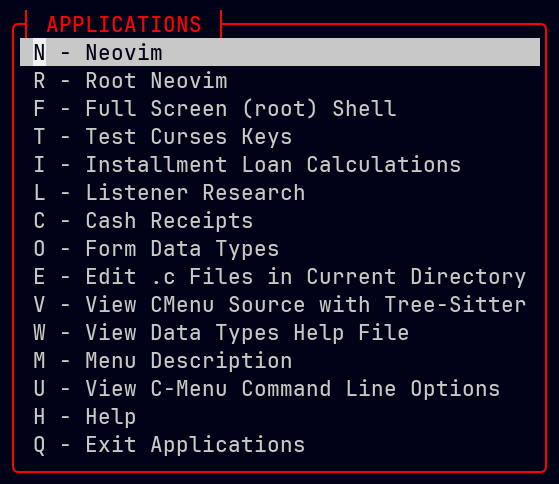
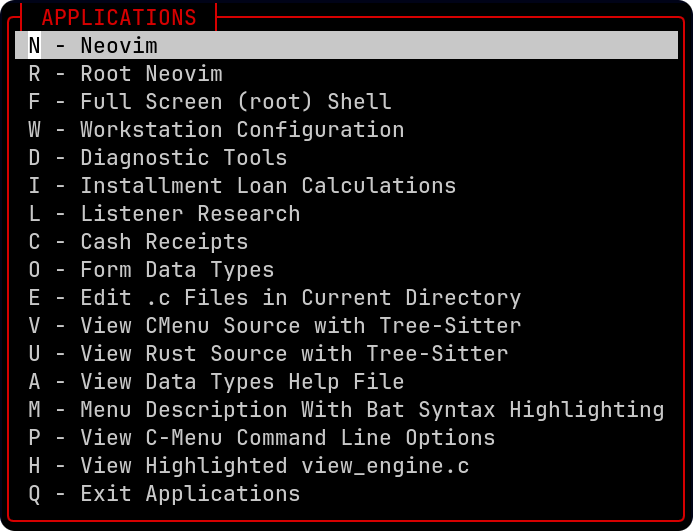
Fixed bug in pick_engine related to argp processing. Essentially, argp provides all the non-option arguments to be captured in an array not including argv[0]. The getopt code returned an array of all arguments with an index to the first non-option argument. This caused the pick_engine code to fail w

Changed region(s): [[0.0, 0.0, 1.0, 1.0]]

diff --git a/src/dwin-new.c b/src/dwin-new.c
@@ -1,5 +1,10 @@
 /** @file dwin.c
-    @brief Window support for C-Menu
+    @brief Window support for C-Menu - EXPERIMENTAL
+    @note This file contains functions for managing NCurses windows and color
+   settings for the Chyron structure for function key labels and mouse click
+   handling. This file is a work in progress and may be subject to change as the
+   C-Menu project evolves. Generally, don't try to use it yet unless you want
+   complete the half-done code modifications.
     @author Bill Waller
     Copyright (c) 2025
     MIT License
@@ -49,11 +54,13 @@ void apply_gamma(RGB *);
 
 Chyron *new_chyron();
 void set_chyron_key(Chyron *, int, char *, int);
+void set_chyron_key_cp(Chyron *, int, char *, int, int);
 bool is_set_chyron_key(Chyron *, int);
 void unset_chyron_key(Chyron *, int);
 void compile_chyron(Chyron *);
 int get_chyron_key(Chyron *, int);
 Chyron *destroy_chyron(Chyron *chyron);
+int str_to_cmplx(cchar_t *dest, char *src, int cp, int *p, int);
 
 Chyron *wait_mk_chyron();
 WINDOW *wait_mk_win(Chyron *, char *);
@@ -254,14 +261,21 @@ bool is_set_chyron_key(Chyron *chyron, int k) {
    X position. If the label string is empty, the key is unset by setting the
    first character of the text to '\0'.
 */
-void set_chyron_key(Chyron *chyron, int k, char *s, int kc) {
-
+void set_chyron_key_cp(Chyron *chyron, int k, char *s, int kc, int cp) {
     if (*s != '\0')
-
         ssnprintf(chyron->key[k]->text, CHYRON_KEY_MAXLEN - 1, "%s", s);
     else
         chyron->key[k]->text[0] = '\0';
     chyron->key[k]->keycode = kc;
+    chyron->key[k]->cp = cp;
+}
+void set_chyron_key(Chyron *chyron, int k, char *s, int kc) {
+    if (*s != '\0')
+        ssnprintf(chyron->key[k]->text, CHYRON_KEY_MAXLEN - 1, "%s", s);
+    else
+        chyron->key[k]->text[0] = '\0';
+    chyron->key[k]->keycode = kc;
+    chyron->key[k]->cp = cp_norm;
 }
 /** @brief Unset chyron key
     @ingroup Chyron
@@ -280,25 +294,60 @@ void unset_chyron_key(Chyron *chyron, int k) { chyron->key[k]->text[0] = '\0'; }
 */
 void compile_chyron(Chyron *chyron) {
     int end_pos = 0;
-    int i = 0;
-    chyron->s[0] = '\0';
-    chyron->l = 0;
-    while (i < CHYRON_KEYS) {
-        if (chyron->key[i]->text[0] == '\0') {
-            i++;
+    int k = 0, p = 0;
+
+    while (k < CHYRON_KEYS) {
+        if (chyron->key[k]->text[0] == '\0') {
+            k++;
             continue;
         }
-        if (end_pos == 0)
-            strnz__cat(chyron->s, " ", MAXLEN - 1);
-        else
-            strnz__cat(chyron->s, " | ", MAXLEN - 1);
-        strnz__cat(chyron->s, chyron->key[i]->text, MAXLEN - 1);
+        if (end_pos == 0) {
+            str_to_cmplx(chyron->cmplx_buf, " ", chyron->key[k]->cp, &p,
+                         MAXLEN - 1);
+            strnz__cpy(chyron->s, " ", MAXLEN - 1);
+        } else {
+            str_to_cmplx(chyron->cmplx_buf, "|", cp_norm, &p, MAXLEN - 1);
+            strnz__cpy(chyron->s, "|", MAXLEN - 1);
+        }
+        str_to_cmplx(chyron->cmplx_buf, chyron->key[k]->text,
+                     chyron->key[k]->cp, &p, MAXLEN - 1);
+        strnz__cat(chyron->s, chyron->key[k]->text, MAXLEN - 1);
         end_pos = strlen(chyron->s) + 1;
-        chyron->key[i]->end_pos = end_pos;
-        i++;
+        chyron->key[k]->end_pos = end_pos;
     }
-    if (end_pos > 0)
-        chyron->l = strnz__cat(chyron->s, " ", MAXLEN - 1);
+    str_to_cmplx(chyron->cmplx_buf, " ", chyron->key[k]->cp, &p, MAXLEN - 1);
+    strnz__cpy(chyron->s, " ", MAXLEN - 1);
+    end_pos = strlen(chyron->s) + 1;
+    chyron->key[k]->end_pos = end_pos;
+}
+
+int str_to_cmplx(cchar_t *cmplx_buf, char *str, int cpx, int *p, int maxlen) {
+    int i = 0, len = 0;
+    attr_t attr = WA_NORMAL;
+    const char *s;
+    cchar_t cc = {0};
+    wchar_t wc = L'\0';
+    mbstate_t mbstate;
+    memset(&mbstate, 0, sizeof(mbstate));
+    while (str[i] != '\0') {
+        s = &str[i];
+        len = mbrtowc(&wc, s, MB_CUR_MAX, &mbstate);
+        if (len <= 0) {
+            wc = L'?';
+            len = 1;
+        }
+        if (*p >= maxlen - 1)
+            break;
+        if (setcchar(&cc, &wc, attr, cpx, nullptr) != ERR) {
+            if (len > 0 && (*p + len) < MAXLEN - 1)
+                cmplx_buf[*p++] = cc;
+        }
+        i += len;
+    }
+    wc = L'\0';
+    setcchar(&cc, &wc, WA_NORMAL, cpx, nullptr);
+    cmplx_buf[*p] = cc;
+    return i;
 }
 /** @brief Get keycode from chyron
     @ingroup Chyron
@@ -321,6 +370,30 @@ int get_chyron_key(Chyron *chyron, int x) {
             break;
     return chyron->key[i]->keycode;
 }
+
+cchar_t *mk_cmplx_buf(const char *s) {
+    cchar_t *cmplx_buf = (cchar_t *)calloc(MAXLEN, sizeof(cchar_t));
+    int j = 0;
+    int len;
+    attr_t attr = WA_NORMAL;
+    int cpx = cp_norm;
+    wchar_t wc = L'\0';
+    cchar_t cc = {0};
+    mbstate_t mbstate;
+    memset(&mbstate, 0, sizeof(mbstate));
+    len = mbrtowc(&wc, s, MB_CUR_MAX, &mbstate);
+    if (len <= 0) {
+        wc = L'?';
+        len = 1;
+    }
+    if (setcchar(&cc, &wc, attr, cpx, nullptr) != ERR) {
+        if (len > 0 && (j + len) < MAXLEN - 1) {
+            cmplx_buf[j++] = cc;
+        }
+    }
+    return cmplx_buf;
+}
+
 /** @brief Initialize NCurses and color settings
     @ingroup window_support
     @param sio Pointer to SIO struct with terminal and color settings
@@ -395,13 +468,13 @@ bool open_curses(SIO *sio) {
 
     cp_norm = get_clr_pair(CLR_FG, CLR_BG);
     cp_reverse = get_clr_pair(CLR_BG, CLR_FG);
-    // cp_reverse_highlight = get_clr_pair(CLR_YELLOW, CLR_FG);
+    cp_reverse_highlight = get_clr_pair(CLR_YELLOW, CLR_FG);
     cp_box = get_clr_pair(CLR_BO, CLR_BG);
     cp_ln = get_clr_pair(CLR_LN, CLR_LN_BG);
 
     CCC_NORM = mkccc(cp_norm);
     CCC_REVERSE = mkccc(cp_reverse);
-    // CCC_REVERSE_HIGHLIGHT = mkccc(cp_reverse_highlight);
+    CCC_REVERSE_HIGHLIGHT = mkccc(cp_reverse_highlight);
     CCC_BOX = mkccc(cp_box);
     CCC_LN = mkccc(cp_ln);
     noecho();

diff --git a/src/include/cm.h b/src/include/cm.h
@@ -210,28 +210,32 @@ enum FTypes {
     64                 /**< maximum length of the command text for a key       \
                           binding in the chyron */
 #define CHYRON_KEYS 20 /**< maximum number of key bindings for the chyron */
+
 typedef struct {
     char text[CHYRON_KEY_MAXLEN]; /**< command text associated with the key code
                                    */
     int keycode;                  /**< key code associated with the command */
     int end_pos; /**< end position of the command text in the chyron */
+    int cp;      /**< color pair index for the command text in the chyron */
 } ChyronKey;
 
 typedef struct {
     ChyronKey *key[CHYRON_KEYS]; /**< array of key bindings for the chyron */
     char s[MAXLEN]; /**< the chyron string, for displaying messages in */
-    int l;          /**< length of the chyron string, for display purposes */
+    cchar_t cmplx_buf[MAXLEN]; /**< the chyron wide character string */
+    int l; /**< length of the chyron string, for display purposes */
 } Chyron;
 
 extern int xwgetch(WINDOW *, Chyron *, int);
-extern int click_y; /**< the y coordinate of a mouse click, for handling mouse
-                   events */
-extern int
-    click_x; /**< the x coordinate of a mouse click, for handling mouse */
+
+extern int click_y; /**< the y coordinate of a mouse click */
+extern int click_x; /**< the x coordinate of a mouse click */
+
 extern Chyron *wait_mk_chyron();
 extern WINDOW *wait_mk_win(Chyron *, char *);
 extern int wait_continue(WINDOW *, Chyron *, int);
 extern bool wait_destroy(Chyron *);
+
 extern bool f_debug;         /**< a flag to indicate whether debug
         output should be printed, for debugging purposes */
 extern unsigned int cmd_key; /**< the command key for the current command, for
@@ -249,18 +253,19 @@ typedef struct {
 #define LN_COLOR 4    /**< default line number color */
 #define LN_BG_COLOR 7 /**< default line number background */
 
-extern int cp_default;   /**< default color pair index */
-extern int cp_norm;      /**< normal color pair index */
-extern int cp_box;       /**< box color pair index */
-extern int cp_bold;      /**< bold color pair index */
-extern int cp_title;     /**< title color pair index */
-extern int cp_highlight; /**< highlight color pair index */
-extern int cp_reverse;   /**< reverse color pair index */
-extern int cp_ln;        /**< line number color pair index */
-extern int cp_ln_bg;     /** line number background color pair index */
-extern int clr_idx;      /**< current color index */
-extern int clr_cnt;      /**< number of colors used */
-extern int clr_pair_idx; /**< current color pair index */
+extern int cp_default;           /**< default color pair index */
+extern int cp_norm;              /**< normal color pair index */
+extern int cp_box;               /**< box color pair index */
+extern int cp_bold;              /**< bold color pair index */
+extern int cp_title;             /**< title color pair index */
+extern int cp_highlight;         /**< highlight color pair index */
+extern int cp_reverse;           /**< reverse color pair index */
+extern int cp_reverse_highlight; /**< reverse highlight color pair index */
+extern int cp_ln;                /**< line number color pair index */
+extern int cp_ln_bg;             /** line number background color pair index */
+extern int clr_idx;              /**< current color index */
+extern int clr_cnt;              /**< number of colors used */
+extern int clr_pair_idx;         /**< current color pair index */
 extern int clr_pair_cnt; /**< number of color pairs supported by the terminal */
 extern char const colors_text[][10]; /**< color codes for the 16 basic colors */
 
@@ -644,6 +649,7 @@ typedef struct {
     int cp_default;              /**< default color pair index */
     int cp_norm;                 /**< normal color pair index */
     int cp_reverse;              /**< reverse color pair index */
+    int cp_reverse_highlight;    /**< reverse highlight color pair index */
     int cp_box;                  /**< box color pair index */
     int cp_bold;                 /**< bold color pair index */
     int cp_title;                /**< title color pair index */

diff --git a/src/pick_engine.c b/src/pick_engine.c
@@ -346,13 +346,13 @@ int pick_engine(Init *init) {
         set_chyron_key(pick->chyron, 11, "PgUp", KEY_PPAGE);
         set_chyron_key(pick->chyron, 12, "PgDn", KEY_NPAGE);
     }
-    set_chyron_key(pick->chyron, 13, "Toggle", 32);
+    set_chyron_key(pick->chyron, 13, "Toggle", 't');
     compile_chyron(pick->chyron);
     if (pick->chyron->l > win_maxx)
         pick->chyron->l = strnz(pick->chyron->s, win_maxx);
-    // if (pick->win_width < pick->chyron->l)
-    //     pick->win_width = pick->chyron->l;
-    pick->win_width = max(pick->win_width, pick->chyron->l) + 2;
+    if (pick->win_width < pick->chyron->l)
+        pick->win_width = pick->chyron->l;
+    pick->win_width = max(pick->win_width, pick->chyron->l);
     if (pick->begx + pick->win_width > COLS - 2)
         pick->begx = COLS - pick->win_width - 2;
     else if (pick->begx == 0)
@@ -642,9 +642,9 @@ void display_page(Pick *pick) {
 void pick_display_chyron(Pick *pick) {
     int l;
     char tmp_str[MAXLEN];
-    ssnprintf(tmp_str, MAXLEN - 1, "%s| Page %d of %d ", pick->chyron->s,
-              pick->tbl_page + 1, pick->tbl_pages);
-    l = strlen(tmp_str);
+    // ssnprintf(tmp_str, MAXLEN - 1, "%s| Page %d of %d ", pick->chyron->s,
+    //          pick->tbl_page + 1, pick->tbl_pages);
+    l = strnz__cpy(tmp_str, pick->chyron->s, MAXLEN - 1);
     wattron(pick->win, WA_REVERSE);
     mvwaddstr(pick->win, pick->pg_lines, 0, tmp_str);
     wattroff(pick->win, WA_REVERSE);

diff --git a/src/mem.c b/src/mem.c
@@ -491,6 +491,7 @@ bool init_menu_files(Init *init, int argc, char **argv) {
     // menu->f_help_spec =
     //     verify_spec_arg(menu->help_spec, init->help_spec, init->mapp_help,
     //                     "~/menuapp/help", R_OK);
+    int optind = 1;
     if (optind < argc && !init->f_mapp_spec) {
         menu->f_mapp_spec =
             verify_spec_arg(menu->mapp_spec, argv[optind], init->mapp_msrc,
@@ -538,6 +539,7 @@ bool init_menu_files(Init *init, int argc, char **argv) {
     @note Positional args: [pick desc], [in_file], [out_file], [help_file] */
 bool init_pick_files(Init *init, int argc, char **argv) {
     char tmp_str[MAXLEN];
+    int optind = 1;
     pick->f_in_spec = verify_spec_arg(pick->in_spec, init->in_spec,
                                       init->mapp_data, "~/menuapp/data", R_OK);
     pick->f_out_spec =
@@ -634,6 +636,7 @@ bool init_pick_files(Init *init, int argc, char **argv) {
     @note Positional args: [pick desc], [in_file], [out_file], [help_file] */
 bool init_form_files(Init *init, int argc, char **argv) {
     char tmp_str[MAXLEN];
+    int optind = 0;
     form->f_mapp_spec =
         verify_spec_arg(form->mapp_spec, init->mapp_spec, init->mapp_msrc,
                         "~/menuapp/msrc", R_OK);

diff --git a/src/popups.c b/src/popups.c
@@ -25,8 +25,8 @@ int popup_pick(Init *init, int argc, char **argv, int begy, int begx) {
     parse_opt_args(init, argc, argv);
     Pick *sav_pick = init->pick;
     init->pick = NULL;
-    new_pick(init, argc, argv, begy, begx);
-    rc = init_pick(init, argc, argv, begy, begx);
+    new_pick(init, init->argc, init->argv, begy, begx);
+    rc = init_pick(init, init->argc, init->argv, begy, begx);
     destroy_pick(init);
     init->pick = sav_pick;
     return rc;
@@ -38,8 +38,8 @@ int popup_form(Init *init, int argc, char **argv, int begy, int begx) {
     parse_opt_args(init, argc, argv);
     Form *sav_form = init->form;
     init->form = NULL;
-    new_form(init, argc, argv, begy, begx);
-    rc = init_form(init, argc, argv, begy, begx);
+    new_form(init, init->argc, init->argv, begy, begx);
+    rc = init_form(init, init->argc, init->argv, begy, begx);
     destroy_form(init);
     init->form = sav_form;
     return rc;

diff --git a/src/menu.c b/src/menu.c
@@ -33,12 +33,11 @@ int main(int argc, char **argv) {
         parse_menu_description(init);
         menu_engine(init);
     } else if (!strcmp(pgm_name, "form")) {
-        init_form(init, argc, argv, LINES / 14, COLS / 14);
+        init_form(init, init->argc, init->argv, LINES / 14, COLS / 14);
     } else if (!strcmp(pgm_name, "pick")) {
         init_pick(init, init->argc, init->argv, 0, 0);
     } else if (!strcmp(pgm_name, "view")) {
         view = new_view(init);
-        ;
         if (view->lines > 0 && view->cols > 0)
             mview(init, view->lines, view->cols, 0, 0);
         else if (!init_view_full_screen(init))
